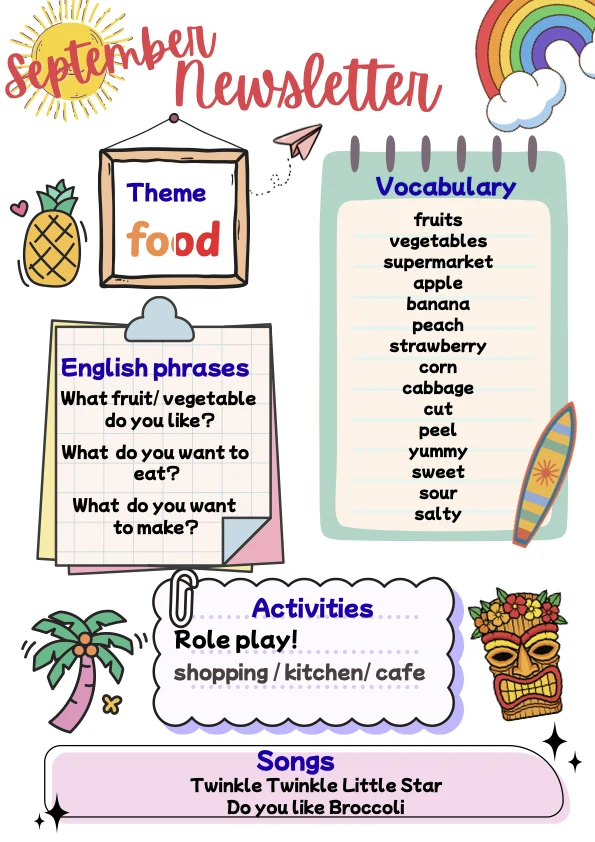
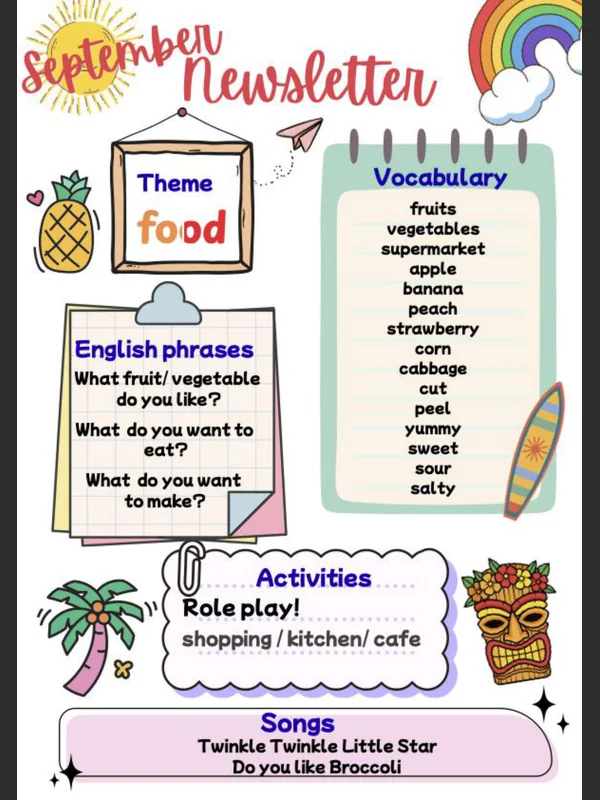
Pre-render archive thumbnails instead of drawing PDFs in the browser
The archive drew every thumbnail with pdf.js, so a visitor scrolling it
pulled 372KB of library plus roughly 18MB of PDFs to see twelve small
pictures. It also caused the stretched-flyer bug: a <canvas> has no
natural size, so a landscape sheet was squashed into the portrait card
until object-fit was added. Newsletters already worked the other way --
the two newest had pre-baked previews -- so the page carried two
mechanisms for one job.

Now every PDF has a .webp beside it, rendered once at 600x800 with the
sheet centred on a #2D2D2D letterbox. Landscape and portrait sheets end
up the same card shape, which is what makes a mixed archive hold
together, and normalising at generation means it cannot regress on a
future flyer. Scrolling the whole archive now costs 795KB and no
JavaScript.

scripts/make-pdf-thumbs.py regenerates them and is skipped when a
thumbnail is already newer than its PDF. It is a dev-time tool needing
PyMuPDF and Pillow; scripts/ is in .assetsignore, so the site itself
still ships no dependencies.

Three existing assertions moved with the markup. One of mine was wrong
rather than the page: it demanded loading="lazy" everywhere, but the two
September cards are eager on purpose, being the top of the page.

diff --git a/newsletter.html b/newsletter.html
@@ -264,11 +264,6 @@
     font-size:0.82rem; color:#444;
   }
 
-  .card-thumb canvas {
-    width:100%; height:100%; display:block;
-    object-fit:contain; background:#fff;
-  }
-
   @media(max-width:600px) {
     .pdf-grid { grid-template-columns:repeat(2,1fr); gap:14px; }
     .card-body { padding:14px; }
@@ -298,8 +293,6 @@
   @media(max-width: 600px) { .site-footer { padding: 30px 16px; } }
 </style>
 <!-- PDF.js Library -->
-<script src="https://cdnjs.cloudflare.com/ajax/libs/pdf.js/3.11.174/pdf.min.js"></script>
-<script>pdfjsLib.GlobalWorkerOptions.workerSrc = 'https://cdnjs.cloudflare.com/ajax/libs/pdf.js/3.11.174/pdf.worker.min.js';</script>
 <!-- Google Analytics -->
 <script>
   window.dataLayer = window.dataLayer || [];
@@ -358,17 +351,23 @@ window.addEventListener('resize',_fixSeasonalNav);
 <div class="content">
 
   <!-- ================================================
+    Thumbnails are pre-rendered images, not live PDFs. Each .pdf has a
+    .webp beside it: 600x800, the sheet centred on a #2D2D2D letterbox so
+    landscape and portrait sheets share one card shape.
+
     HOW TO ADD A NEW NEWSLETTER EACH MONTH:
     1. Export your Canva newsletter as a PDF
     2. Save it to the pdfs/newsletters/ folder as: YYYY-MM.pdf  (e.g. 2026-08.pdf)
-    3. Copy one of the .pdf-card blocks below
-    4. Update: href, card-date, card-title, card-desc
-    5. Move the NEW badge to the latest card
+    3. Generate its thumbnail: python scripts/make-pdf-thumbs.py pdfs/newsletters/YYYY-MM.pdf
+    4. Copy one of the .pdf-card blocks below
+    5. Update: href, img src, img alt, card-date, card-title, card-desc
+    6. Move the NEW badge to the latest card
 
     HOW TO ADD A NEW FLYER:
     1. Save the PDF to pdfs/flyers/ with a clear lowercase filename
-    2. Copy one of the .pdf-card blocks into the flyer grid
-    3. Update the title, description, href, and data-pdf
+    2. Generate its thumbnail: python scripts/make-pdf-thumbs.py pdfs/flyers/NAME.pdf
+    3. Copy one of the .pdf-card blocks into the flyer grid
+    4. Update the title, description, href, img src and img alt
   ================================================ -->
 
   <section class="archive-section" aria-labelledby="flyer-heading">
@@ -379,7 +378,7 @@ window.addEventListener('resize',_fixSeasonalNav);
       <!-- ====== PEEKABOO ====== -->
       <a href="pdfs/flyers/peekaboo-class.pdf" target="_blank" class="pdf-card" rel="noopener noreferrer">
         <div class="card-thumb">
-          <canvas data-pdf="pdfs/flyers/peekaboo-class.pdf"></canvas>
+          <img src="pdfs/flyers/peekaboo-class.webp" alt="Peekaboo 親子クラスのチラシ" width="600" height="800" loading="lazy" decoding="async">
         </div>
         <div class="card-body">
           <span class="card-date">Flyer</span>
@@ -392,7 +391,7 @@ window.addEventListener('resize',_fixSeasonalNav);
       <!-- ====== PRESCHOOL 1-2歳児 ====== -->
       <a href="pdfs/flyers/preschool-class.pdf" target="_blank" class="pdf-card" rel="noopener noreferrer">
         <div class="card-thumb">
-          <canvas data-pdf="pdfs/flyers/preschool-class.pdf"></canvas>
+          <img src="pdfs/flyers/preschool-class.webp" alt="1〜2歳児プレスクールのチラシ" width="600" height="800" loading="lazy" decoding="async">
         </div>
         <div class="card-body">
           <span class="card-date">Flyer</span>
@@ -405,7 +404,7 @@ window.addEventListener('resize',_fixSeasonalNav);
       <!-- ====== 2027 NEW FIRST GRADERS ====== -->
       <a href="pdfs/flyers/shinichinensei-2027.pdf" target="_blank" class="pdf-card" rel="noopener noreferrer">
         <div class="card-thumb">
-          <canvas data-pdf="pdfs/flyers/shinichinensei-2027.pdf"></canvas>
+          <img src="pdfs/flyers/shinichinensei-2027.webp" alt="2027年度 新1年生 無料体験レッスンのチラシ" width="600" height="800" loading="lazy" decoding="async">
           <span class="new-badge">NEW</span>
         </div>
         <div class="card-body">
@@ -419,7 +418,7 @@ window.addEventListener('resize',_fixSeasonalNav);
       <!-- ====== SUMMER SCHOOL 2026 ====== -->
       <a href="pdfs/flyers/summerschool2026.pdf" target="_blank" class="pdf-card" rel="noopener noreferrer">
         <div class="card-thumb">
-          <canvas data-pdf="pdfs/flyers/summerschool2026.pdf"></canvas>
+          <img src="pdfs/flyers/summerschool2026.webp" alt="サマースクール2026のチラシ" width="600" height="800" loading="lazy" decoding="async">
         </div>
         <div class="card-body">
           <span class="card-date">Flyer</span>
@@ -432,7 +431,7 @@ window.addEventListener('resize',_fixSeasonalNav);
       <!-- ====== PRESCHOOL & AFTERSCHOOL ====== -->
       <a href="pdfs/flyers/preschool-afterschool-2026.pdf" target="_blank" class="pdf-card" rel="noopener noreferrer">
         <div class="card-thumb">
-          <canvas data-pdf="pdfs/flyers/preschool-afterschool-2026.pdf"></canvas>
+          <img src="pdfs/flyers/preschool-afterschool-2026.webp" alt="プレスクール・アフタースクールのチラシ" width="600" height="800" loading="lazy" decoding="async">
         </div>
         <div class="card-body">
           <span class="card-date">Flyer</span>
@@ -445,7 +444,7 @@ window.addEventListener('resize',_fixSeasonalNav);
       <!-- ====== MAIN FLYER ====== -->
       <a href="pdfs/flyers/main-flyer.pdf" target="_blank" class="pdf-card" rel="noopener noreferrer">
         <div class="card-thumb">
-          <canvas data-pdf="pdfs/flyers/main-flyer.pdf"></canvas>
+          <img src="pdfs/flyers/main-flyer.webp" alt="Luana English School スクールチラシ" width="600" height="800" loading="lazy" decoding="async">
         </div>
         <div class="card-body">
           <span class="card-date">Flyer</span>
@@ -467,7 +466,7 @@ window.addEventListener('resize',_fixSeasonalNav);
     <!-- ====== SEPTEMBER 2026 PRE-K ====== -->
     <a href="pdfs/newsletters/2026-09-prek.pdf" target="_blank" class="pdf-card" rel="noopener noreferrer">
       <div class="card-thumb">
-        <img src="pdfs/newsletters/2026-09-prek.webp" alt="2026年9月 Pre-K ニュースレターの表紙" width="595" height="842" loading="eager">
+        <img src="pdfs/newsletters/2026-09-prek.webp" alt="2026年9月 Pre-K ニュースレターの表紙" width="600" height="800" loading="eager">
         <span class="new-badge">NEW</span>
       </div>
       <div class="card-body">
@@ -481,7 +480,7 @@ window.addEventListener('resize',_fixSeasonalNav);
     <!-- ====== SEPTEMBER 2026 ====== -->
     <a href="pdfs/newsletters/2026-09.pdf" target="_blank" class="pdf-card" rel="noopener noreferrer">
       <div class="card-thumb">
-        <img src="pdfs/newsletters/2026-09.webp" alt="2026年9月号ニュースレターの表紙" width="595" height="842" loading="eager">
+        <img src="pdfs/newsletters/2026-09.webp" alt="2026年9月号ニュースレターの表紙" width="600" height="800" loading="eager">
       </div>
       <div class="card-body">
         <span class="card-date">September 2026</span>
@@ -494,7 +493,7 @@ window.addEventListener('resize',_fixSeasonalNav);
     <!-- ====== AUGUST 2026 ====== -->
     <a href="pdfs/newsletters/2026-08.pdf" target="_blank" class="pdf-card" rel="noopener noreferrer">
       <div class="card-thumb">
-        <canvas data-pdf="pdfs/newsletters/2026-08.pdf"></canvas>
+        <img src="pdfs/newsletters/2026-08.webp" alt="2026年8月号ニュースレターの表紙" width="600" height="800" loading="lazy" decoding="async">
       </div>
       <div class="card-body">
         <span class="card-date">August 2026</span>
@@ -507,7 +506,7 @@ window.addEventListener('resize',_fixSeasonalNav);
     <!-- ====== JULY 2026 ====== -->
     <a href="pdfs/newsletters/2026-07.pdf" target="_blank" class="pdf-card" rel="noopener noreferrer">
       <div class="card-thumb">
-        <canvas data-pdf="pdfs/newsletters/2026-07.pdf"></canvas>
+        <img src="pdfs/newsletters/2026-07.webp" alt="2026年7月号ニュースレターの表紙" width="600" height="800" loading="lazy" decoding="async">
       </div>
       <div class="card-body">
         <span class="card-date">July 2026</span>
@@ -520,7 +519,7 @@ window.addEventListener('resize',_fixSeasonalNav);
     <!-- ====== JUNE 2026 ====== -->
     <a href="pdfs/newsletters/2026-06.pdf" target="_blank" class="pdf-card" rel="noopener noreferrer">
       <div class="card-thumb">
-        <canvas data-pdf="pdfs/newsletters/2026-06.pdf"></canvas>
+        <img src="pdfs/newsletters/2026-06.webp" alt="2026年6月号ニュースレターの表紙" width="600" height="800" loading="lazy" decoding="async">
       </div>
       <div class="card-body">
         <span class="card-date">June 2026</span>
@@ -533,7 +532,7 @@ window.addEventListener('resize',_fixSeasonalNav);
     <!-- ====== MAY 2026 ====== -->
     <a href="pdfs/newsletters/2026-05.pdf" target="_blank" class="pdf-card" rel="noopener noreferrer">
       <div class="card-thumb">
-        <canvas data-pdf="pdfs/newsletters/2026-05.pdf"></canvas>
+        <img src="pdfs/newsletters/2026-05.webp" alt="2026年5月号ニュースレターの表紙" width="600" height="800" loading="lazy" decoding="async">
       </div>
       <div class="card-body">
         <span class="card-date">May 2026</span>
@@ -554,48 +553,6 @@ window.addEventListener('resize',_fixSeasonalNav);
 document.querySelectorAll(".nav-links a").forEach(link => {
   link.addEventListener("click", () => document.querySelector(".nav-links").classList.remove("open"));
 });
-
-async function renderPDFPage(canvas) {
-  const pdfUrl = canvas.getAttribute('data-pdf');
-  if (canvas.dataset.rendered) return;
-  canvas.dataset.rendered = 'true';
-
-  try {
-    const pdf = await pdfjsLib.getDocument(pdfUrl).promise;
-    const page = await pdf.getPage(1);
-    const scale = 1.2;
-    const viewport = page.getViewport({ scale });
-    canvas.width = viewport.width;
-    canvas.height = viewport.height;
-    const context = canvas.getContext('2d');
-    await page.render({ canvasContext: context, viewport }).promise;
-  } catch (error) {
-    console.warn(`Error rendering PDF ${pdfUrl}:`, error.message);
-    const ctx = canvas.getContext('2d');
-    ctx.fillStyle = '#f0f0f0';
-    ctx.fillRect(0, 0, canvas.width || 300, canvas.height || 400);
-    ctx.fillStyle = '#999';
-    ctx.font = '14px sans-serif';
-    ctx.textAlign = 'center';
-    ctx.fillText('PDF preview unavailable', (canvas.width || 300) / 2, (canvas.height || 400) / 2);
-  }
-}
-
-function setupLazyPDFLoading() {
-  const canvases = document.querySelectorAll('canvas[data-pdf]');
-  const observer = new IntersectionObserver((entries) => {
-    entries.forEach(entry => {
-      if (entry.isIntersecting) {
-        renderPDFPage(entry.target);
-        observer.unobserve(entry.target);
-      }
-    });
-  }, { rootMargin: '50px' });
-
-  canvases.forEach(canvas => observer.observe(canvas));
-}
-
-document.addEventListener('DOMContentLoaded', setupLazyPDFLoading);
 </script>
 
 </main>

diff --git a/scripts/make-pdf-thumbs.py b/scripts/make-pdf-thumbs.py
@@ -1,0 +1,86 @@
+"""Render a card thumbnail for each PDF in the newsletter archive.
+
+The archive used to draw thumbnails in the browser with pdf.js, which meant
+every visitor downloaded the full PDFs and a 372KB library to see six small
+pictures, and a <canvas> has no natural size so landscape sheets were stretched
+into the portrait card. Thumbnails are pre-rendered instead: one .webp beside
+each .pdf, always 600x800, with the sheet centred on a #2D2D2D letterbox. That
+gives landscape and portrait sheets the same card shape.
+
+Dev-time tool, not part of the site. scripts/ is in .assetsignore, so nothing
+here is served. Needs PyMuPDF and Pillow, which the site itself does not.
+
+    python scripts/make-pdf-thumbs.py                    # every PDF, skipping current ones
+    python scripts/make-pdf-thumbs.py path/to/one.pdf    # just this one
+    python scripts/make-pdf-thumbs.py --force            # rebuild everything
+"""
+
+import glob
+import os
+import sys
+
+import fitz  # PyMuPDF
+from PIL import Image
+
+WIDTH, HEIGHT = 600, 800
+LETTERBOX = (0x2D, 0x2D, 0x2D)  # --dark, the same colour as the site footer
+QUALITY = 84
+SOURCES = ("pdfs/flyers/*.pdf", "pdfs/newsletters/*.pdf")
+
+
+def render(pdf_path):
+    """Write <pdf_path>.webp and return (sheet_size, letterbox_bar_px, bytes)."""
+    doc = fitz.open(pdf_path)
+    page = doc[0]
+    pw, ph = page.rect.width, page.rect.height
+
+    # Contain: scale so the whole sheet fits, never crop it.
+    scale = min(WIDTH / pw, HEIGHT / ph)
+    # Rasterise at 2x then downsample, so text on a dense flyer stays legible.
+    pix = page.get_pixmap(matrix=fitz.Matrix(scale * 2, scale * 2))
+    sheet = Image.frombytes("RGB", (pix.width, pix.height), pix.samples)
+    doc.close()
+
+    sheet = sheet.resize((round(pw * scale), round(ph * scale)), Image.LANCZOS)
+    canvas = Image.new("RGB", (WIDTH, HEIGHT), LETTERBOX)
+    canvas.paste(sheet, ((WIDTH - sheet.width) // 2, (HEIGHT - sheet.height) // 2))
+
+    dest = os.path.splitext(pdf_path)[0] + ".webp"
+    canvas.save(dest, "WEBP", quality=QUALITY, method=6)
+
+    bar = (HEIGHT - sheet.height) // 2 if sheet.height < HEIGHT else (WIDTH - sheet.width) // 2
+    return dest, sheet.size, bar, os.path.getsize(dest)
+
+
+def main(argv):
+    force = "--force" in argv
+    named = [a for a in argv if not a.startswith("--")]
+
+    if named:
+        targets = named
+    else:
+        targets = sorted(p for pattern in SOURCES for p in glob.glob(pattern))
+
+    if not targets:
+        print("no PDFs found")
+        return 1
+
+    for pdf in targets:
+        if not os.path.exists(pdf):
+            print(f"  missing: {pdf}")
+            return 1
+        dest = os.path.splitext(pdf)[0] + ".webp"
+        # Skip thumbnails that are already newer than their PDF.
+        if not force and not named and os.path.exists(dest) \
+                and os.path.getmtime(dest) >= os.path.getmtime(pdf):
+            print(f"  up to date  {os.path.basename(dest)}")
+            continue
+        _, size, bar, nbytes = render(pdf)
+        shape = "landscape" if size[0] > size[1] else "portrait"
+        print(f"  wrote       {os.path.basename(dest):32} {shape:9} "
+              f"sheet {size[0]}x{size[1]}  bar {bar}px  {nbytes // 1024} KB")
+    return 0
+
+
+if __name__ == "__main__":
+    raise SystemExit(main(sys.argv[1:]))
